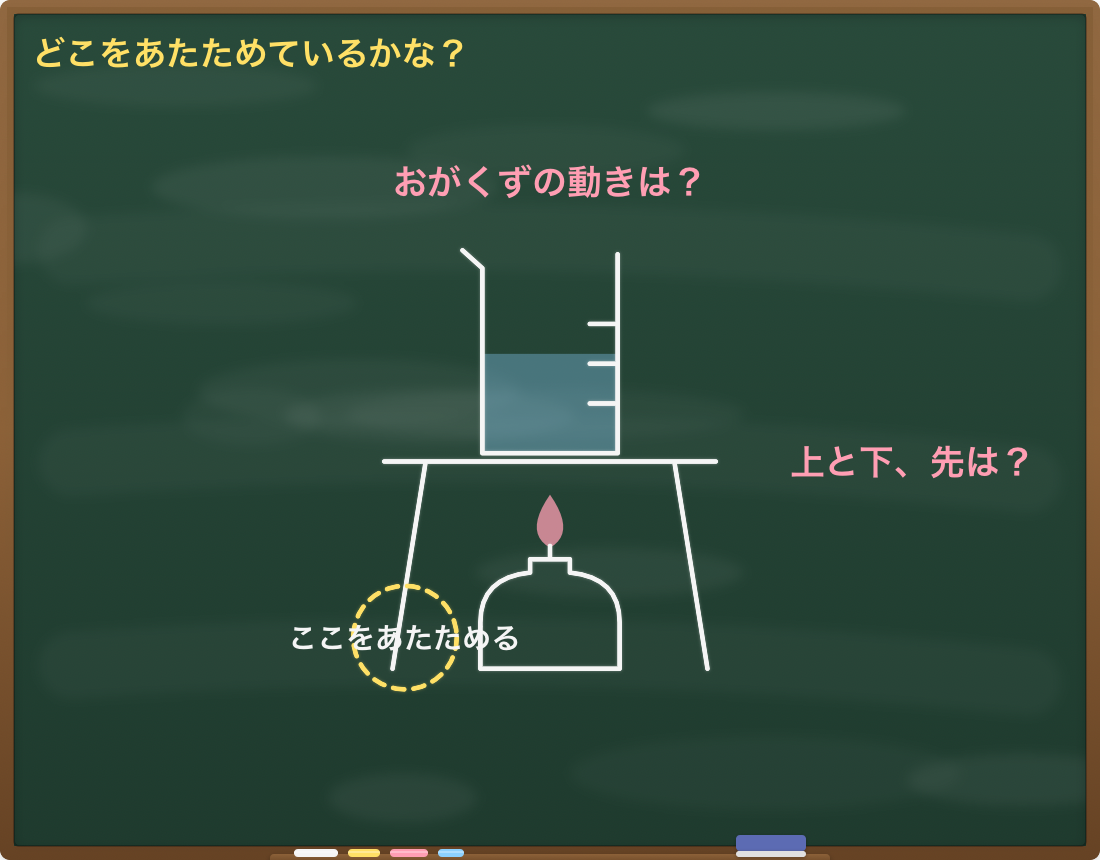
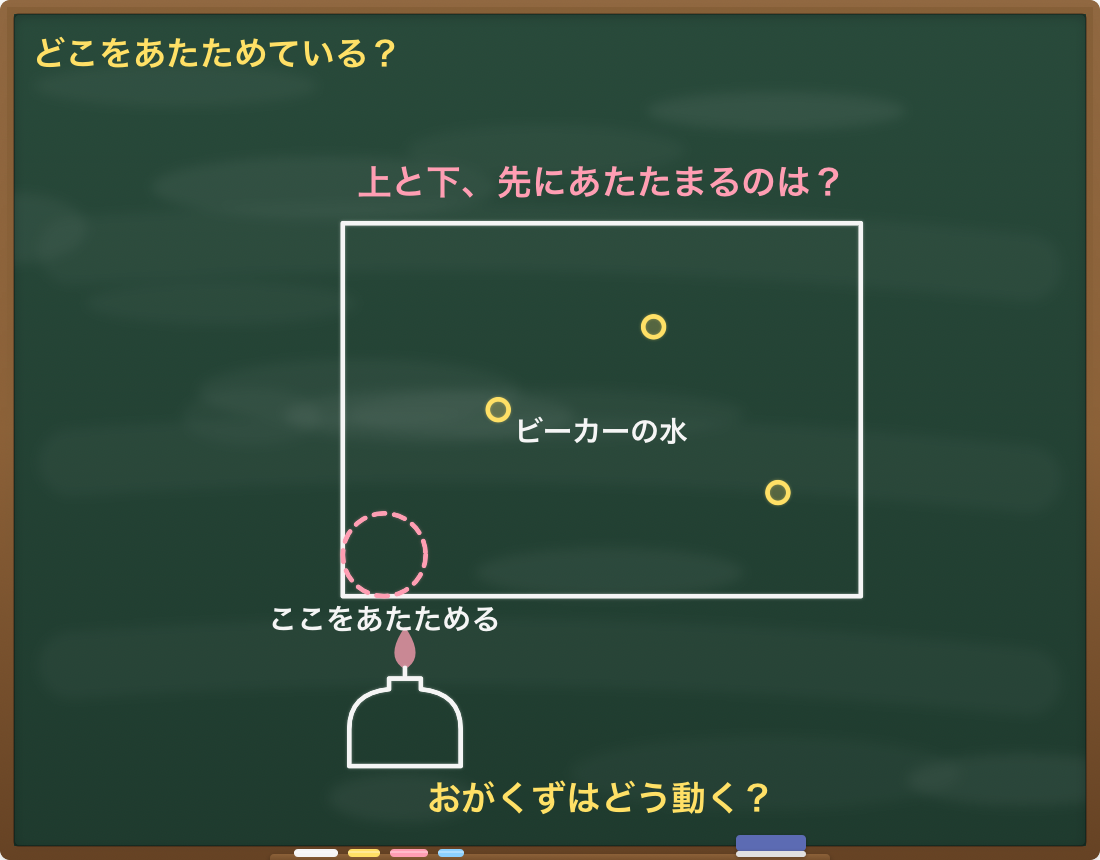
自由に描く黒板の文字を重ならないように置き、様子のしるしを黒板の外に出す (#107)

Changed region(s): [[0.2473, 0.1814, 0.8036, 0.9674], [0.8345, 0.514, 0.9273, 0.5744], [0.34, 0.0302, 0.4327, 0.0907]]

diff --git a/ios/HomeTeacher/Board/Components/ChalkDrawingView.swift b/ios/HomeTeacher/Board/Components/ChalkDrawingView.swift
@@ -7,13 +7,17 @@ struct ChalkDrawingView: View {
     @Environment(\.boardRevealCount) private var revealCount
 
     var body: some View {
+        let labelPositions = ChalkLabelLayout.positions(for: model)
         GeometryReader { geometry in
             let frame = Self.frame(in: geometry.size)
             ZStack(alignment: .topLeading) {
                 ForEach(Array(model.shapes.enumerated()), id: \.offset) { index, shape in
                     let unit = model.revealIndex(of: shape)
                     if unit < revealCount, shape.parsedKind != nil {
-                        ChalkShapeView(shape: shape, frame: frame, delay: Self.delay(index: index, unit: unit, in: model))
+                        ChalkShapeView(
+                            shape: shape, frame: frame, delay: Self.delay(index: index, unit: unit, in: model),
+                            labelPositions: labelPositions[index]
+                        )
                             .transition(.opacity)
                     }
                 }
@@ -58,6 +62,8 @@ private struct ChalkShapeView: View {
     let shape: ChalkDrawing.Shape
     let frame: ChalkDrawingView.Frame
     let delay: Double
+    /// 文字どうしが重ならないようにずらした位置（`ChalkLabelLayout`）
+    var labelPositions: [CGPoint] = []
     @Environment(\.boardAnimated) private var animated
     @State private var progress: CGFloat = 0
 
@@ -90,12 +96,12 @@ private struct ChalkShapeView: View {
                     dash: shape.dashed ? [lineWidth * 2.4, lineWidth * 2] : []
                 ))
                 .shadow(color: color.opacity(0.35), radius: 1.5)
-            ForEach(Array(geometry.labels.enumerated()), id: \.offset) { _, label in
+            ForEach(Array(geometry.labels.enumerated()), id: \.offset) { i, label in
                 Text(label.text)
                     .font(Chalk.font(frame.scale * label.size, weight: .bold))
                     .foregroundStyle(label.usesShapeColor ? color : Chalk.white)
                     .fixedSize()
-                    .position(frame.point(label.at))
+                    .position(frame.point(i < labelPositions.count ? labelPositions[i] : label.at))
                     .opacity(Double(drawn))
             }
         }
@@ -130,6 +136,8 @@ struct ChalkGeometry {
         /// 文字の大きさ（黒板の座標で）
         var size: CGFloat
         var usesShapeColor: Bool
+        /// 絵の一部の文字（磁石の N・S、乾電池の ＋・－ など）。ずらさない
+        var isFixed = false
     }
 
     var stroke = Path()
@@ -219,7 +227,7 @@ struct ChalkGeometry {
             accent = art.accent?.applying(transform)
             liquid = art.liquid?.applying(transform)
             for text in art.texts {
-                labels.append(Label(text: text.text, at: text.at.applying(transform), size: height * text.size, usesShapeColor: true))
+                labels.append(Label(text: text.text, at: text.at.applying(transform), size: height * text.size, usesShapeColor: true, isFixed: true))
             }
             if !shape.text.isEmpty {
                 // スタンプの名前は、絵の大きさによらず同じ大きさで絵の下に書く
@@ -269,5 +277,105 @@ struct ChalkGeometry {
             path.addCurve(to: p2, control1: c1, control2: c2)
         }
         return path
+    }
+}
+
+// MARK: - 文字の置き場所
+
+/// 文字どうしが重ならないように置く（#107）。モデルの座標どおりに置くと、ラベルが重なることがあった。
+/// 図形の並び順に置いていき、前に置いた文字と重なったら、近い順に上下（だめなら左右）へずらす。黒板の外には出さない。
+/// 段階表示で何が見えているかによらず、図全体で一度だけ決める（見せ方で文字が動かない）
+enum ChalkLabelLayout {
+    /// 文字の箱（黒板の座標）。日本語は 1 文字が大きさとほぼ同じ幅、英数字はその半分くらい
+    static func box(text: String, at point: CGPoint, size: CGFloat) -> CGRect {
+        let width = text.reduce(CGFloat(0)) { $0 + ($1.isASCII ? 0.58 : 1.0) } * size + 1
+        let height = size * 1.25
+        return CGRect(x: point.x - width / 2, y: point.y - height / 2, width: width, height: height)
+    }
+
+    /// 図形ごとの、文字の位置（`ChalkGeometry.labels` と同じ順）
+    static func positions(for model: ChalkDrawing) -> [[CGPoint]] {
+        let canvas = CGRect(x: 0, y: 0, width: ChalkDrawing.width, height: ChalkDrawing.height)
+        let geometries = model.shapes.map(ChalkGeometry.init(shape:))
+        let strokes = geometries.flatMap { samples(of: $0.stroke) }
+        var placed: [CGRect] = []
+        return geometries.map { geometry in
+            geometry.labels.map { label in
+                let point = label.isFixed ? label.at : place(label, avoiding: placed, strokes: strokes, in: canvas)
+                placed.append(box(text: label.text, at: point, size: label.size))
+                return point
+            }
+        }
+    }
+
+    /// 線の上の点（だいたい 1 ずつ）。文字が線にかぶらないかを調べるのに使う
+    static func samples(of path: Path) -> [CGPoint] {
+        var points: [CGPoint] = []
+        var current = CGPoint.zero
+        var start = CGPoint.zero
+        func line(to end: CGPoint) {
+            let n = max(Int((hypot(end.x - current.x, end.y - current.y)).rounded(.up)), 1)
+            for i in 1...n {
+                let t = CGFloat(i) / CGFloat(n)
+                points.append(CGPoint(x: current.x + (end.x - current.x) * t, y: current.y + (end.y - current.y) * t))
+            }
+            current = end
+        }
+        path.forEach { element in
+            switch element {
+            case .move(let p):
+                current = p
+                start = p
+                points.append(p)
+            case .line(let p):
+                line(to: p)
+            case .quadCurve(let p, let c):
+                let from = current
+                for i in 1...8 {
+                    let t = CGFloat(i) / 8, u = 1 - t
+                    let q = CGPoint(x: u * u * from.x + 2 * u * t * c.x + t * t * p.x, y: u * u * from.y + 2 * u * t * c.y + t * t * p.y)
+                    line(to: q)
+                }
+            case .curve(let p, let c1, let c2):
+                let from = current
+                for i in 1...10 {
+                    let t = CGFloat(i) / 10, u = 1 - t
+                    let a = u * u * u, b = 3 * u * u * t, c = 3 * u * t * t, d = t * t * t
+                    line(to: CGPoint(x: a * from.x + b * c1.x + c * c2.x + d * p.x, y: a * from.y + b * c1.y + c * c2.y + d * p.y))
+                }
+            case .closeSubpath:
+                line(to: start)
+            }
+        }
+        return points
+    }
+
+    /// 前に置いた文字と重ならず、線にもかぶらない、いちばん近い場所。線を避けられなければ文字どうしだけ避ける
+    static func place(_ label: ChalkGeometry.Label, avoiding placed: [CGRect], strokes: [CGPoint], in canvas: CGRect) -> CGPoint {
+        let original = box(text: label.text, at: label.at, size: label.size)
+        let step = original.height * 0.55
+        var offsets: [CGPoint] = [.zero]
+        for k in 1...8 {
+            let d = CGFloat(k) * step
+            offsets += [CGPoint(x: 0, y: d), CGPoint(x: 0, y: -d)]
+        }
+        for k in 1...6 {
+            let d = CGFloat(k) * step * 1.5
+            offsets += [CGPoint(x: d, y: 0), CGPoint(x: -d, y: 0)]
+        }
+        var fallback: CGPoint?
+        for offset in offsets {
+            let point = CGPoint(x: label.at.x + offset.x, y: label.at.y + offset.y)
+            let rect = box(text: label.text, at: point, size: label.size)
+            let inside = rect.minX >= canvas.minX - 2 && rect.maxX <= canvas.maxX + 2 && rect.minY >= canvas.minY - 1 && rect.maxY <= canvas.maxY + 1
+            // 少しだけ触れるのは許す（ぎっしり並べた文字を大きく動かさない）
+            let tight = rect.insetBy(dx: 0.4, dy: 0.3)
+            guard inside, !placed.contains(where: { $0.insetBy(dx: 0.4, dy: 0.3).intersects(tight) }) else { continue }
+            if !strokes.contains(where: { tight.contains($0) }) { return point }
+            // 線を避けるのは近くだけ（遠くへ飛ばすと、何のラベルかわからなくなる）
+            if fallback == nil { fallback = point }
+            if abs(offset.x) + abs(offset.y) > step * 4 { break }
+        }
+        return fallback ?? label.at
     }
 }

diff --git a/ios/HomeTeacherTests/ChalkDrawingTests.swift b/ios/HomeTeacherTests/ChalkDrawingTests.swift
@@ -115,4 +115,59 @@ struct ChalkDrawingTests {
             #expect(BoardSamples.drawing(named: sample.name).flatMap(drawing) != nil, "\(sample.name)")
         }
     }
+
+    @Test func 重なる文字はずらして重ならないようにする() {
+        let m = ChalkDrawing(shapes: [
+            .init(kind: .text, points: [[50, 30]], text: "上と下、先は？"),
+            .init(kind: .text, points: [[52, 31]], text: "おがくずの動き"),
+            .init(kind: .stamp, points: [[50, 20]], text: "ビーカー", stamp: .beaker),
+        ])
+        let positions = ChalkLabelLayout.positions(for: m)
+        // 最初の文字は動かさない
+        #expect(positions[0] == [CGPoint(x: 50, y: 30)])
+        var boxes: [CGRect] = []
+        for (shape, points) in zip(m.shapes, positions) {
+            for (label, point) in zip(ChalkGeometry(shape: shape).labels, points) {
+                boxes.append(ChalkLabelLayout.box(text: label.text, at: point, size: label.size).insetBy(dx: 0.4, dy: 0.3))
+            }
+        }
+        for i in boxes.indices {
+            for j in boxes.indices where j > i { #expect(!boxes[i].intersects(boxes[j]), "\(i) と \(j)") }
+            #expect(boxes[i].minY >= -1 && boxes[i].maxY <= ChalkDrawing.height + 1)
+        }
+    }
+
+    @Test func 重ならない文字は動かさない() {
+        let m = ChalkDrawing(shapes: [
+            .init(kind: .text, points: [[20, 10]], text: "A"),
+            .init(kind: .text, points: [[80, 60]], text: "B"),
+        ])
+        #expect(ChalkLabelLayout.positions(for: m) == [[CGPoint(x: 20, y: 10)], [CGPoint(x: 80, y: 60)]])
+    }
+
+    @Test func 文字が線にかぶるときは近くの空いている所へずらす() {
+        let m = ChalkDrawing(shapes: [
+            .init(kind: .line, points: [[10, 30], [90, 30]]),
+            .init(kind: .text, points: [[50, 30]], text: "ここ"),
+        ])
+        let point = ChalkLabelLayout.positions(for: m)[1][0]
+        let rect = ChalkLabelLayout.box(text: "ここ", at: point, size: 3.6).insetBy(dx: 0.4, dy: 0.3)
+        #expect(!ChalkLabelLayout.samples(of: ChalkGeometry(shape: m.shapes[0]).stroke).contains { rect.contains($0) })
+        #expect(abs(point.y - 30) < 6 && point.x == 50)
+    }
+
+    @Test func 四角の中のラベルは線にかぶらなければそのまま() {
+        let m = ChalkDrawing(shapes: [.init(kind: .rect, points: [[20, 20], [40, 40]], text: "30g")])
+        #expect(ChalkLabelLayout.positions(for: m) == [[CGPoint(x: 30, y: 30)]])
+    }
+
+    @Test func スタンプの中の文字はずらさない() {
+        let m = ChalkDrawing(shapes: [.init(kind: .stamp, points: [[50, 35]], text: "かん電池", stamp: .battery, size: 1.6)])
+        let labels = ChalkGeometry(shape: m.shapes[0]).labels
+        let positions = ChalkLabelLayout.positions(for: m)[0]
+        for (label, point) in zip(labels, positions) where label.isFixed {
+            #expect(point == label.at, "\(label.text)")
+        }
+        #expect(labels.filter(\.isFixed).map(\.text) == ["＋", "－"])
+    }
 }

diff --git a/ios/HomeTeacher/Session/SessionStageLayout.swift b/ios/HomeTeacher/Session/SessionStageLayout.swift
@@ -29,6 +29,8 @@ struct SessionStageLayout: Equatable {
     let designBase: CGSize
     /// 先生の体が黒板に重なっている幅（右から）と高さ（下から）。pt
     let occlusion: CGSize
+    /// いまの様子（聞いてる・話してる）のしるしの真ん中。黒板に書いているときは黒板の外に出す
+    let badgeCenter: CGPoint
 
     init(size: CGSize, mode: Mode) {
         self.mode = mode
@@ -72,6 +74,17 @@ struct SessionStageLayout: Equatable {
             board = CGRect(x: 0, y: 0, width: w, height: h * 0.76)
             hud = CGRect(x: 0, y: board.maxY + 16, width: teacher.minX, height: h - board.maxY - 16)
             designBase = CGSize(width: Self.boardDesignBase.width, height: Self.boardDesignBase.width * 0.9)
+        }
+        switch (mode, isWide) {
+        case (.teacher, _):
+            badgeCenter = CGPoint(x: min(teacher.maxX, w) - 90, y: teacher.minY + 34)
+        case (.board, true):
+            // 黒板の右の空いている所（タイマーの下、先生の頭の上）
+            // 右の列は狭いので、画面からはみ出さないところまで寄せる（黒板の枠に少しかかる）
+            badgeCenter = CGPoint(x: min((board.maxX + w) / 2, w - 80), y: max(hud.maxY - 4, 150))
+        case (.board, false):
+            // 黒板の下（タイマーの右）
+            badgeCenter = CGPoint(x: min(hud.midX + 150, teacher.minX - 20), y: hud.minY + 44)
         }
         let bodyLeft = teacher.midX - teacher.width * Self.teacherBodyWidth / 2
         // 先生の頭の上には少し余白がある（枠の上 1 割）

diff --git a/ios/HomeTeacherTests/BoardStageTests.swift b/ios/HomeTeacherTests/BoardStageTests.swift
@@ -84,6 +84,17 @@ struct SessionStageLayoutTests {
         #expect(CGRect(origin: .zero, size: size).contains(layout.board))
     }
 
+    @Test(arguments: [landscape, portrait])
+    func 書くときの様子のしるしは黒板にかぶらない(_ size: CGSize) {
+        let layout = SessionStageLayout(size: size, mode: .board)
+        // しるしはおよそ 150×40
+        let badge = CGRect(x: layout.badgeCenter.x - 75, y: layout.badgeCenter.y - 20, width: 150, height: 40)
+        let inner = layout.board.insetBy(dx: 14, dy: 14)
+        let overlap = badge.intersection(inner)
+        #expect(overlap.isNull || overlap.width < 40, "\(badge) と \(inner)")
+        #expect(CGRect(origin: .zero, size: size).insetBy(dx: -10, dy: -10).contains(badge))
+    }
+
     @Test func 中身を描く大きさは場所と同じ比で基準より小さくしない() {
         let base = SessionStageLayout.boardDesignBase
         for size in [CGSize(width: 960, height: 590), CGSize(width: 760, height: 700), CGSize(width: 300, height: 200)] {

diff --git a/ios/HomeTeacher/Board/BoardSamples.swift b/ios/HomeTeacher/Board/BoardSamples.swift
@@ -127,8 +127,8 @@ enum BoardSamples {
         let stamps = ChalkDrawing.Stamp.allCases
         let shapes = stamps.enumerated().map { i, stamp in
             ChalkDrawing.Shape(
-                kind: .stamp, points: [[10 + Double(i % 6) * 16, 12 + Double(i / 6) * 22]], text: stamp.shortName,
-                stamp: stamp, size: 0.75, fill: [.beaker, .flask, .testTube, .graduatedCylinder].contains(stamp)
+                kind: .stamp, points: [[8 + Double(i % 7) * 14, 11 + Double(i / 7) * 22]], text: stamp.shortName,
+                stamp: stamp, size: 0.68, fill: [.beaker, .flask, .testTube, .graduatedCylinder].contains(stamp)
             )
         }
         return .component(title: "スタンプ", .chalkDrawing(ChalkDrawing(shapes: shapes)))

diff --git a/ios/HomeTeacher/Session/SessionScreen.swift b/ios/HomeTeacher/Session/SessionScreen.swift
@@ -250,10 +250,8 @@ struct SessionContent: View {
                     .offset(x: layout.hud.minX, y: layout.hud.minY)
             }
             StateBadge(phase: coordinator.phase, state: coordinator.conversationState, mode: coordinator.sessionMode)
-                .frame(width: layout.teacher.width, alignment: layout.mode == .board ? .center : .trailing)
-                .padding(.top, layout.mode == .board ? 0 : 16)
-                .padding(.trailing, layout.mode == .board ? 0 : 16)
-                .offset(x: layout.teacher.minX, y: layout.mode == .board ? layout.teacher.minY - 8 : layout.teacher.minY)
+                .fixedSize()
+                .position(layout.badgeCenter)
         }
     }
 

diff --git a/docs/spec.md b/docs/spec.md
@@ -131,6 +131,7 @@
     - 日本列島は「size 4・中心 [50,35]」で置いたときの地方の座標をプロンプトに書く（書かないと、印が地図とずれた）
     - 入れ子が深いので、モデルが `component` を JSON の文字列で返すことがある（評価で 4/6）。プロンプトで止め（1/6 に減った）、アプリは文字列を読み直し、最後のかっこが抜けていたら補う
     - 図形の種類・スタンプの名前・色は答えの照合から外す（文字だけを「？」にする）
+    - 文字は重ならないように置く（`ChalkLabelLayout`）：図形の並び順に置き、前の文字と重なるか線にかぶるなら、近い順に上下（だめなら左右）へずらす。スタンプの中の文字（N・S、＋・－）は動かさない
   - **黒板の見せ方**（#105）：黒板に何か書くときは黒板を画面いっぱいに大きくし、先生は黒板の右下に重ねて立たせる（`SessionStageLayout`）。書いていないときは先生だけを大きく見せ、黒板は横の小さな看板にして使い方の案内（「勉強スタート」で始めよう など）を書く
     - 切り替えはアニメーションでつなぐ：看板が広がって黒板になり、先生は右下へ寄る。しまうときは逆。先生（RealityView）は作り直さず、枠の位置と大きさだけを動かす
     - 図を差し替えるときは、黒板消しで前の図を左から右へ拭き取ってから次の図を書く。タイトルは左から右へチョークで書くように出す

diff --git a/docs/boards-eval.md b/docs/boards-eval.md
@@ -107,4 +107,4 @@ cd ios && TEST_RUNNER_BOARD_EVAL=before xcodebuild test ... -only-testing:HomeTe
   - あたためる実験でビーカーとランプが重なる → スタンプ `heating_setup`（三脚と金網つき）を足した
   - 日本列島の上の印が地方とずれる → 地方の座標をプロンプトに書いた
 - 会話の返事の上限（max_tokens 1024）：図形の多い図（直列とへい列）で 891 トークンまで使い、上限に近かった。図形のキーを `kind`・`points` のほかは必須にしないようにし、勧める数を 6〜15 個にした → 521〜615 トークン（ほかの図は 320〜446）。評価は上限で切れたら不合格にする
-- 残っていること：ラベルどうしが少し重なることがある（モデルの置き方による）
+- ラベルが重なる・線にかぶる（モデルの置き方による）→ アプリが文字を近くの空いている所へずらすようにした（`ChalkLabelLayout`）。同じ評価の図で、重なりとかぶりがなくなった（`docs/screenshots/board-final/eval_draw4.jpg`）

diff --git a/tasks/todo.md b/tasks/todo.md
@@ -111,3 +111,7 @@
 - [x] 本番の Claude で評価：分析 6/6、会話 4/4。文字列で返る部品を読み直す
 - [x] 時間に依存して落ちていた `AudioSessionMonitorTests` を、条件を待つ形に直した（全体を 3 回流して 3 回とも通った）
 - [x] 実際にシミュレーターを横に回して、#105 の画面を確かめた
+- [x] ラベルどうしの重なりと線へのかぶりを、アプリ側でずらして避ける
+- [x] 最後のビルドで、部品・自由に描く図・状態の 24 通りを、シミュレーターを実際に回して横置き・縦置きとも撮り直した
+- [x] 縦置きで「話してるよ」が黒板にかぶっていたのを、黒板の外に出した
+- [ ] 実機（iPad）での確認（#74 にチェックリストを足した）
